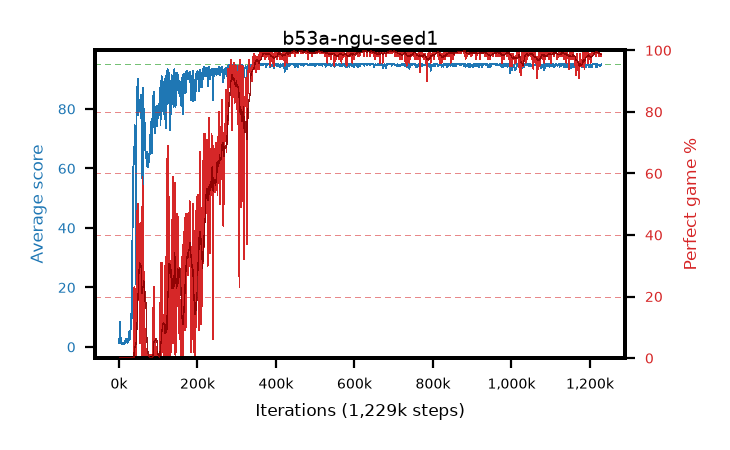
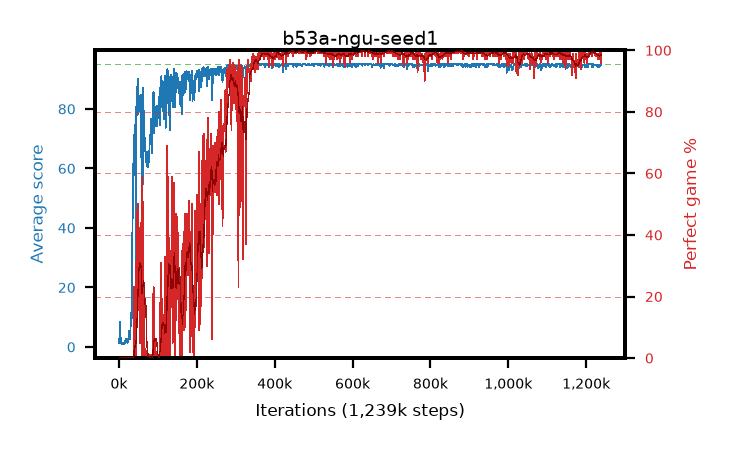
live pictures of 4 arm(s)

diff --git a/results/b53d-ngu-seed4/b53d-ngu-seed4.md b/results/b53d-ngu-seed4/b53d-ngu-seed4.md
@@ -1,6 +1,6 @@
 # b53d-ngu-seed4
 
-step **1,229,000** · 1229 evals · trailing **94.69** · peak **94.94** @1,040,000 · sef **75.4** · best30 **99.7** @1,024,000
+step **1,239,000** · 1239 evals · trailing **94.72** · peak **94.94** @1,040,000 · sef **75.6** · best30 **99.7** @1,024,000
 
 ## Config
 
@@ -80,15 +80,15 @@ step **1,229,000** · 1229 evals · trailing **94.69** · peak **94.94** @1,040,
 | 2000 | 2.39 | 1.47 | 0.0 | 8.0 | 1.286 | 0.0 | 0.4 |
 | 3000 | 6.99 | 3.31 | 0.0 | 25.0 | 5.34 | 0.0 | 0.4 |
 | ... | ... | ... | ... | ... | ... | ... | ... |
-| 1218000 | 95.0 | 94.66 | 95.0 | 95.0 | 193.713 | 100.0 | 0.4 |
-| 1219000 | 95.0 | 94.66 | 95.0 | 95.0 | 193.729 | 100.0 | 0.4 |
-| 1220000 | 95.0 | 94.68 | 95.0 | 95.0 | 193.722 | 100.0 | 0.4 |
-| 1221000 | 94.74 | 94.68 | 72.0 | 95.0 | 191.457 | 98.0 | 0.4 |
-| 1222000 | 94.34 | 94.69 | 29.0 | 95.0 | 192.016 | 99.0 | 0.4 |
-| 1223000 | 94.97 | 94.68 | 92.0 | 95.0 | 192.69 | 99.0 | 0.4 |
-| 1224000 | 94.37 | 94.66 | 32.0 | 95.0 | 192.056 | 99.0 | 0.4 |
-| 1225000 | 95.0 | 94.66 | 95.0 | 95.0 | 193.718 | 100.0 | 0.4 |
-| 1226000 | 95.0 | 94.7 | 95.0 | 95.0 | 193.724 | 100.0 | 0.4 |
-| 1227000 | 94.98 | 94.72 | 93.0 | 95.0 | 192.702 | 99.0 | 0.4 |
 | 1228000 | 94.91 | 94.72 | 89.0 | 95.0 | 191.579 | 98.0 | 0.4 |
 | 1229000 | 93.53 | 94.69 | 23.0 | 95.0 | 188.169 | 96.0 | 0.4 |
+| 1230000 | 94.63 | 94.68 | 62.0 | 95.0 | 191.305 | 98.0 | 0.4 |
+| 1231000 | 95.0 | 94.68 | 95.0 | 95.0 | 193.72 | 100.0 | 0.4 |
+| 1232000 | 94.93 | 94.68 | 88.0 | 95.0 | 192.633 | 99.0 | 0.4 |
+| 1233000 | 94.61 | 94.69 | 74.0 | 95.0 | 191.314 | 98.0 | 0.4 |
+| 1234000 | 94.69 | 94.68 | 64.0 | 95.0 | 192.404 | 99.0 | 0.4 |
+| 1235000 | 95.0 | 94.68 | 95.0 | 95.0 | 193.717 | 100.0 | 0.4 |
+| 1236000 | 95.0 | 94.68 | 95.0 | 95.0 | 193.714 | 100.0 | 0.4 |
+| 1237000 | 94.24 | 94.68 | 23.0 | 95.0 | 189.92 | 97.0 | 0.4 |
+| 1238000 | 95.0 | 94.7 | 95.0 | 95.0 | 193.711 | 100.0 | 0.4 |
+| 1239000 | 94.97 | 94.72 | 92.0 | 95.0 | 192.688 | 99.0 | 0.4 |

diff --git a/results/b53c-ngu-seed3/b53c-ngu-seed3.md b/results/b53c-ngu-seed3/b53c-ngu-seed3.md
@@ -1,6 +1,6 @@
 # b53c-ngu-seed3
 
-step **1,219,000** · 1219 evals · trailing **94.83** · peak **94.93** @574,000 · sef **81.2** · best30 **99.6** @585,000
+step **1,229,000** · 1229 evals · trailing **94.88** · peak **94.93** @574,000 · sef **81.4** · best30 **99.6** @585,000
 
 ## Config
 
@@ -80,15 +80,15 @@ step **1,219,000** · 1219 evals · trailing **94.83** · peak **94.93** @574,00
 | 2000 | 6.19 | 3.38 | 0.0 | 14.0 | 2.147 | 0.0 | 0.4 |
 | 3000 | 12.02 | 6.26 | 1.0 | 18.0 | 7.496 | 0.0 | 0.4 |
 | ... | ... | ... | ... | ... | ... | ... | ... |
-| 1208000 | 95.0 | 94.88 | 95.0 | 95.0 | 193.698 | 100.0 | 0.4 |
-| 1209000 | 94.97 | 94.88 | 92.0 | 95.0 | 192.669 | 99.0 | 0.4 |
-| 1210000 | 94.93 | 94.88 | 88.0 | 95.0 | 192.591 | 99.0 | 0.4 |
-| 1211000 | 94.97 | 94.88 | 92.0 | 95.0 | 192.688 | 99.0 | 0.4 |
-| 1212000 | 94.37 | 94.86 | 32.0 | 95.0 | 192.038 | 99.0 | 0.4 |
-| 1213000 | 94.99 | 94.86 | 94.0 | 95.0 | 192.627 | 99.0 | 0.4 |
-| 1214000 | 94.15 | 94.83 | 10.0 | 95.0 | 191.822 | 99.0 | 0.4 |
-| 1215000 | 94.53 | 94.81 | 48.0 | 95.0 | 192.197 | 99.0 | 0.4 |
-| 1216000 | 95.0 | 94.82 | 95.0 | 95.0 | 193.696 | 100.0 | 0.4 |
-| 1217000 | 95.0 | 94.82 | 95.0 | 95.0 | 193.717 | 100.0 | 0.4 |
 | 1218000 | 94.96 | 94.82 | 93.0 | 95.0 | 191.626 | 98.0 | 0.4 |
 | 1219000 | 95.0 | 94.83 | 95.0 | 95.0 | 193.699 | 100.0 | 0.4 |
+| 1220000 | 94.39 | 94.82 | 34.0 | 95.0 | 192.052 | 99.0 | 0.4 |
+| 1221000 | 95.0 | 94.83 | 95.0 | 95.0 | 193.692 | 100.0 | 0.4 |
+| 1222000 | 95.0 | 94.83 | 95.0 | 95.0 | 193.705 | 100.0 | 0.4 |
+| 1223000 | 95.0 | 94.83 | 95.0 | 95.0 | 193.706 | 100.0 | 0.4 |
+| 1224000 | 94.9 | 94.85 | 85.0 | 95.0 | 192.575 | 99.0 | 0.4 |
+| 1225000 | 94.97 | 94.85 | 92.0 | 95.0 | 192.677 | 99.0 | 0.4 |
+| 1226000 | 95.0 | 94.85 | 95.0 | 95.0 | 193.705 | 100.0 | 0.4 |
+| 1227000 | 95.0 | 94.85 | 95.0 | 95.0 | 193.72 | 100.0 | 0.4 |
+| 1228000 | 94.95 | 94.85 | 90.0 | 95.0 | 192.661 | 99.0 | 0.4 |
+| 1229000 | 95.0 | 94.88 | 95.0 | 95.0 | 193.708 | 100.0 | 0.4 |

diff --git a/results/b53a-ngu-seed1/b53a-ngu-seed1.md b/results/b53a-ngu-seed1/b53a-ngu-seed1.md
@@ -1,6 +1,6 @@
 # b53a-ngu-seed1
 
-step **1,229,000** · 1229 evals · trailing **94.77** · peak **94.96** @643,000 · sef **77.1** · best30 **99.7** @643,000
+step **1,239,000** · 1239 evals · trailing **94.78** · peak **94.96** @643,000 · sef **77.3** · best30 **99.7** @643,000
 
 ## Config
 
@@ -80,15 +80,15 @@ step **1,229,000** · 1229 evals · trailing **94.77** · peak **94.96** @643,00
 | 2000 | 8.43 | 4.84 | 0.0 | 21.0 | 7.201 | 0.0 | 0.4 |
 | 3000 | 8.52 | 6.07 | 0.0 | 26.0 | 5.525 | 0.0 | 0.4 |
 | ... | ... | ... | ... | ... | ... | ... | ... |
-| 1218000 | 94.19 | 94.73 | 14.0 | 95.0 | 191.827 | 99.0 | 0.4 |
-| 1219000 | 94.98 | 94.76 | 93.0 | 95.0 | 192.626 | 99.0 | 0.4 |
-| 1220000 | 94.97 | 94.76 | 92.0 | 95.0 | 192.623 | 99.0 | 0.4 |
-| 1221000 | 94.59 | 94.75 | 54.0 | 95.0 | 192.252 | 99.0 | 0.4 |
-| 1222000 | 94.87 | 94.75 | 82.0 | 95.0 | 192.529 | 99.0 | 0.4 |
-| 1223000 | 94.96 | 94.75 | 91.0 | 95.0 | 192.612 | 99.0 | 0.4 |
-| 1224000 | 94.96 | 94.75 | 93.0 | 95.0 | 191.603 | 98.0 | 0.4 |
-| 1225000 | 94.95 | 94.76 | 90.0 | 95.0 | 192.599 | 99.0 | 0.4 |
-| 1226000 | 94.51 | 94.74 | 48.0 | 95.0 | 191.112 | 98.0 | 0.4 |
-| 1227000 | 94.95 | 94.75 | 90.0 | 95.0 | 192.636 | 99.0 | 0.4 |
 | 1228000 | 94.72 | 94.77 | 79.0 | 95.0 | 191.34 | 98.0 | 0.4 |
 | 1229000 | 94.94 | 94.77 | 92.0 | 95.0 | 191.567 | 98.0 | 0.4 |
+| 1230000 | 94.66 | 94.77 | 61.0 | 95.0 | 192.358 | 99.0 | 0.4 |
+| 1231000 | 94.06 | 94.76 | 9.0 | 95.0 | 189.694 | 97.0 | 0.4 |
+| 1232000 | 94.91 | 94.78 | 87.0 | 95.0 | 191.535 | 98.0 | 0.4 |
+| 1233000 | 94.98 | 94.79 | 93.0 | 95.0 | 192.628 | 99.0 | 0.4 |
+| 1234000 | 94.01 | 94.8 | 12.0 | 95.0 | 189.573 | 97.0 | 0.4 |
+| 1235000 | 94.85 | 94.8 | 80.0 | 95.0 | 192.513 | 99.0 | 0.4 |
+| 1236000 | 94.73 | 94.79 | 68.0 | 95.0 | 192.4 | 99.0 | 0.4 |
+| 1237000 | 94.81 | 94.78 | 76.0 | 95.0 | 192.473 | 99.0 | 0.4 |
+| 1238000 | 95.0 | 94.78 | 95.0 | 95.0 | 193.689 | 100.0 | 0.4 |
+| 1239000 | 94.8 | 94.78 | 85.0 | 95.0 | 189.376 | 96.0 | 0.4 |
